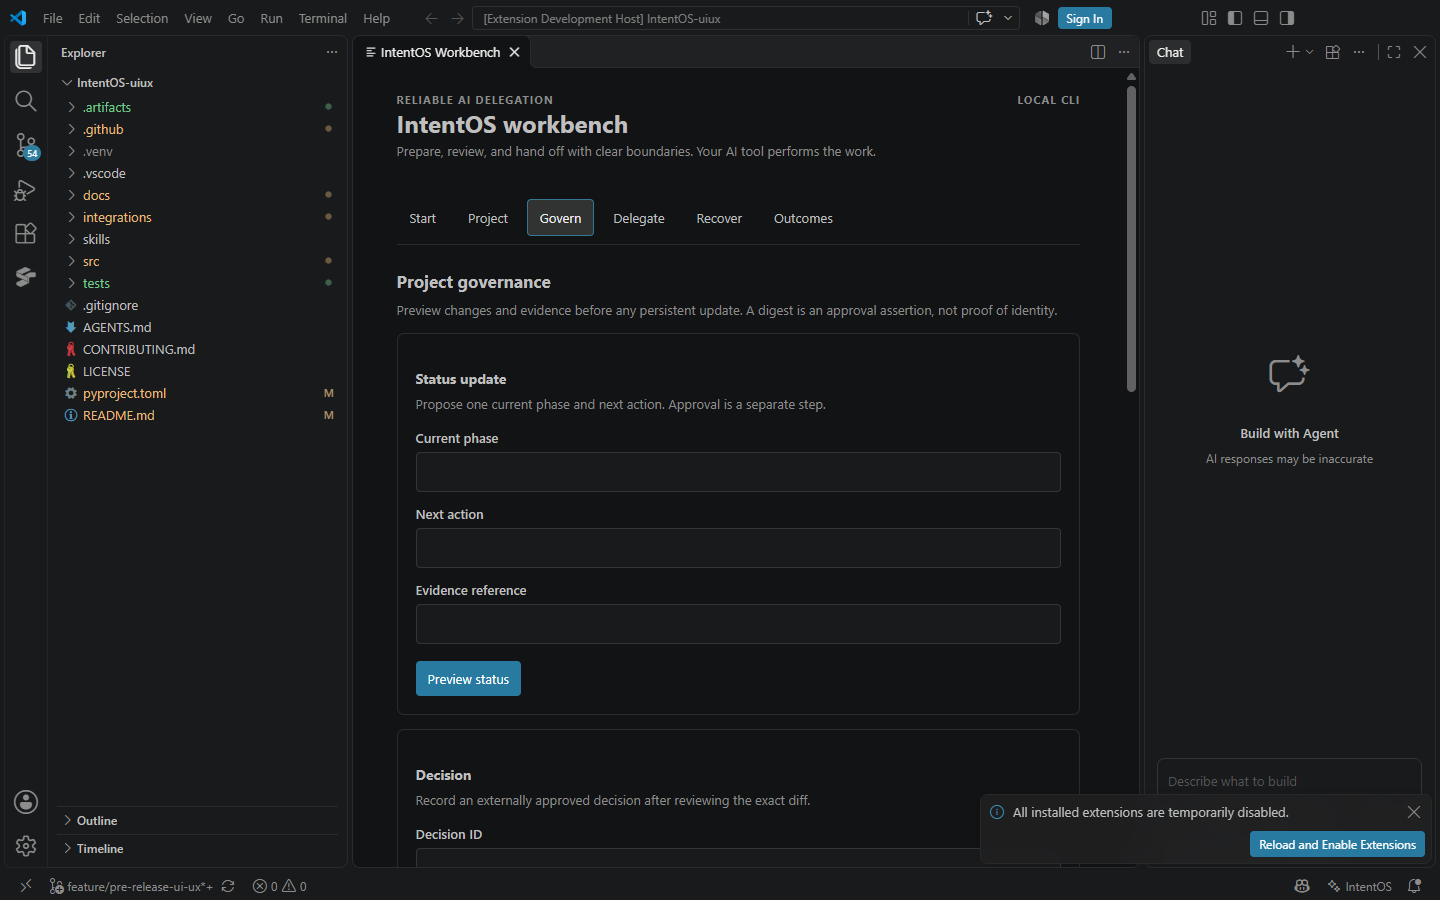
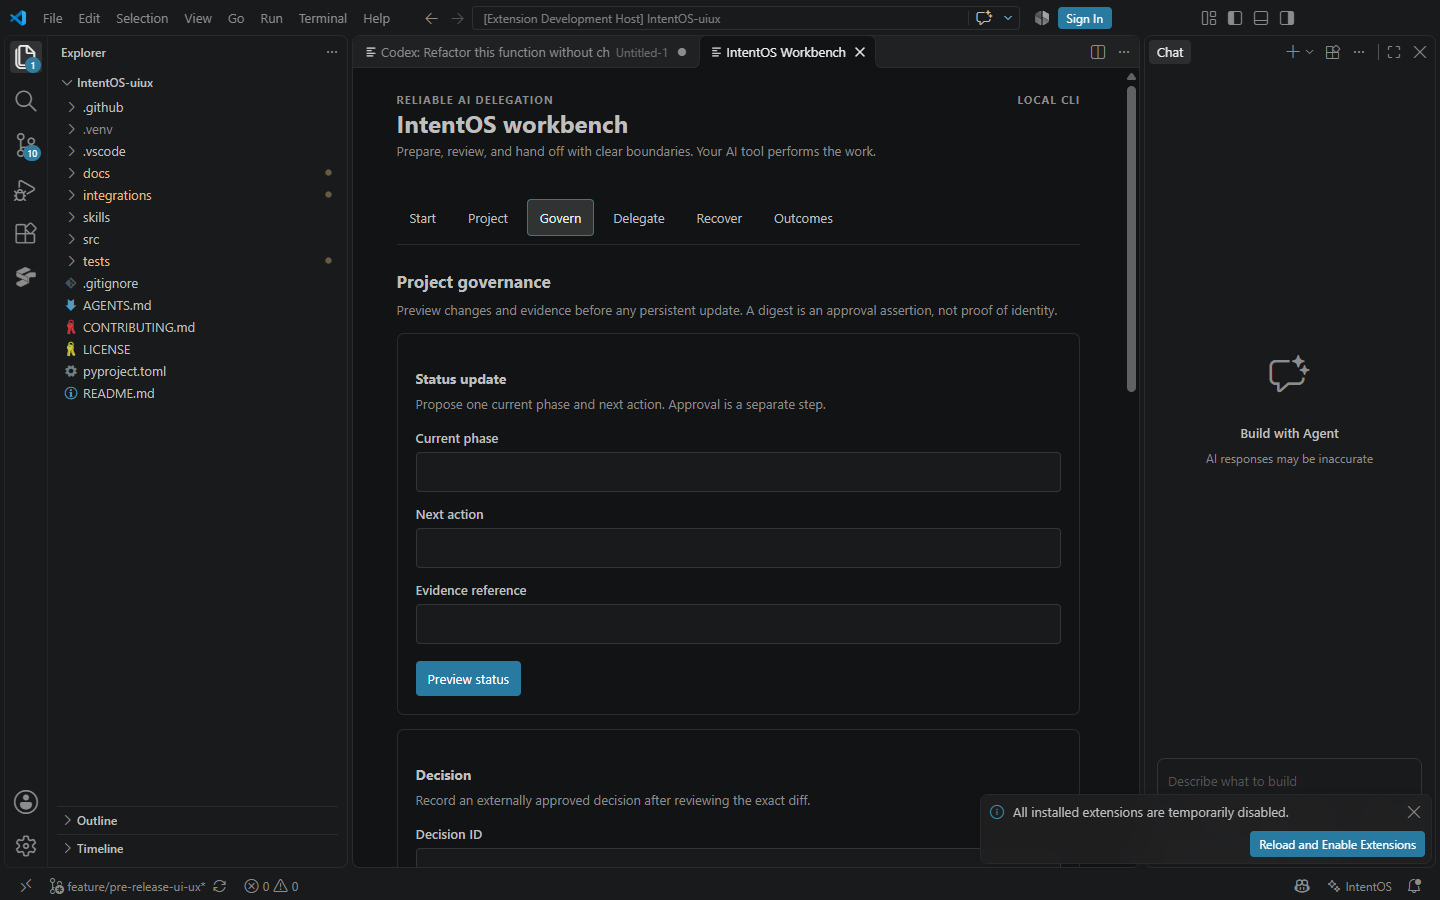
fix: preserve selected editor text in VS Code workbench

diff --git a/tests/run_vscode_extension_host.js b/tests/run_vscode_extension_host.js
@@ -201,17 +201,23 @@ async function captureWorkbenchScreenshot(userDataDir) {
   try {
     await waitFor(`Boolean(${doc}?.querySelector('#prepare-text'))`, 'task form');
     await screenshot('vscode-workbench-start.png');
-    await evaluate(`(${doc}.querySelector('#prepare-text').value='Codex: Refactor this function without changing behavior.',${doc}.querySelector('form[data-action=prepare]').requestSubmit(),true)`);
+    if (!packagedVsix) {
+      await evaluate(`(Array.from(${doc}.querySelectorAll('form[data-action=prepare] button')).find(button=>button.textContent==='Use selected editor text').click(),true)`);
+      await waitFor(`${doc}.querySelector('#prepare-text')?.value === 'Codex: Refactor this function without changing behavior.'`, 'selected editor request');
+    } else {
+      await evaluate(`(${doc}.querySelector('#prepare-text').value='Codex: Refactor this function without changing behavior.',true)`);
+    }
+    await evaluate(`(${doc}.querySelector('form[data-action=prepare]').requestSubmit(),true)`);
     await waitFor(`${doc}.querySelector('#result')?.textContent.includes('Copy Prepared Task')`, 'prepared review');
     const review = await evaluate(`${doc}.querySelector('#result').textContent`);
-    if (!review.includes('Approval boundaries') || !review.includes('Verification') || !review.includes('medium')) throw new Error('VS Code prepared review omitted a required delegation field.');
+    if (!review.includes('Codex: Refactor this function without changing behavior.') || !review.includes('Approval boundaries') || !review.includes('Verification') || !review.includes('medium')) throw new Error('VS Code prepared review omitted the selected goal or a required delegation field.');
     await screenshot('vscode-workbench-review.png');
     for (const [name, screenshotName] of [['Project', 'vscode-workbench-project.png'], ['Govern', 'vscode-workbench-governance.png'], ['Delegate', 'vscode-workbench-delegation.png'], ['Recover', 'vscode-workbench-recovery.png']]) {
       await evaluate(`(${doc}.querySelectorAll('#nav button').forEach(button=>{if(button.textContent===${JSON.stringify(name)})button.click()}),true)`);
       await waitFor(`${doc}.querySelector('main h2')?.textContent === ${JSON.stringify(({ Project: 'Project Compass', Govern: 'Project governance', Delegate: 'Agent and routing', Recover: 'Checkpoints and recovery' })[name])}`, name);
       await screenshot(screenshotName);
     }
-    console.log('Real VS Code Webview interaction passed: task submission, ready review, and Project/Govern/Delegate/Recover navigation.');
+    console.log(`Real VS Code Webview interaction passed: ${packagedVsix ? 'task entry' : 'selected editor text'}, task submission, ready review, and Project/Govern/Delegate/Recover navigation.`);
   } finally {
     frame.socket.close();
     page.socket.close();

diff --git a/integrations/vscode/extension.js b/integrations/vscode/extension.js
@@ -5,13 +5,15 @@ const { workspaceCwd, resolveExecutable, formatSpawnError } = require('./executa
 const { sidebarHtml, workbenchHtml } = require('./workbench');
 
 let workbenchPanel;
+let lastTextEditor;
 
 function selectedRequest() {
-  const editor = vscode.window.activeTextEditor;
-  if (!editor || editor.selection.isEmpty) {
-    return '';
+  for (const editor of [vscode.window.activeTextEditor, lastTextEditor]) {
+    if (editor && !editor.selection.isEmpty) {
+      return editor.document.getText(editor.selection);
+    }
   }
-  return editor.document.getText(editor.selection);
+  return '';
 }
 
 function runIntentOS(request, extensionPath, options = {}) {
@@ -202,7 +204,12 @@ function openWorkbench(extensionPath) {
         if (!pending) return;
         const candidate = pending;
         pending = undefined;
-        const answer = await vscode.window.showWarningMessage(candidate.action === 'handoffDispatch' ? 'Dispatch this exact reviewed packet to Codex? Completion will still need verification.' : 'Apply this exact reviewed project update?', { modal: true }, 'Approve exact change');
+        const prompt = candidate.action === 'handoffDispatch'
+          ? 'Dispatch this exact reviewed packet to Codex? Completion will still need verification.'
+          : candidate.action === 'outcomeLearn'
+            ? 'Save this exact reviewed learning proposal? Runtime policy will not change.'
+            : 'Apply this exact reviewed project update?';
+        const answer = await vscode.window.showWarningMessage(prompt, { modal: true }, 'Approve exact change');
         if (answer !== 'Approve exact change') return;
         const approvalArgs = candidate.action === 'outcomeLearn'
           ? ['--approval-ref', candidate.approvalRef, '--output', candidate.output]
@@ -413,6 +420,17 @@ async function prepareTask(extensionPath) {
 
 function activate(context) {
   const extensionPath = context.extensionUri.fsPath;
+  lastTextEditor = vscode.window.activeTextEditor;
+  if (vscode.window.onDidChangeActiveTextEditor) {
+    context.subscriptions.push(vscode.window.onDidChangeActiveTextEditor((editor) => {
+      if (editor) lastTextEditor = editor;
+    }));
+  }
+  if (vscode.workspace?.onDidCloseTextDocument) {
+    context.subscriptions.push(vscode.workspace.onDidCloseTextDocument((document) => {
+      if (lastTextEditor?.document === document) lastTextEditor = undefined;
+    }));
+  }
   context.subscriptions.push(
     vscode.commands.registerCommand('intentos.prepareTask', () => prepareTask(extensionPath))
   );

diff --git a/integrations/vscode/test/extensionHost.test.js b/integrations/vscode/test/extensionHost.test.js
@@ -72,6 +72,11 @@ async function run() {
     const commands = await vscode.commands.getCommands(true);
     assert(commands.includes('intentos.prepareTask'), 'The Command Palette prepare path is missing.');
     assert(commands.includes('intentos.openWorkbench'), 'The graphical workbench command is missing.');
+    const selectedText = 'Codex: Refactor this function without changing behavior.';
+    const selectionDocument = await vscode.workspace.openTextDocument({ content: selectedText });
+    const selectionEditor = await vscode.window.showTextDocument(selectionDocument, { viewColumn: vscode.ViewColumn.One });
+    selectionEditor.selection = new vscode.Selection(new vscode.Position(0, 0), new vscode.Position(0, selectedText.length));
+    assert.strictEqual(selectionEditor.document.getText(selectionEditor.selection), selectedText);
     await vscode.commands.executeCommand('intentos.openWorkbench');
     for (let attempt = 0; attempt < 20; attempt += 1) {
       if (vscode.window.tabGroups.all.some((group) => group.tabs.some((tab) => tab.label === 'IntentOS Workbench'))) break;
@@ -151,6 +156,8 @@ async function run() {
       executable,
       cwd,
       status: payload.status,
+      selectedTextAfterWorkbench: selectionEditor.document.getText(selectionEditor.selection),
+      activeEditorAfterWorkbench: vscode.window.activeTextEditor?.document.uri.toString() || null,
       extensionPath,
       mode: expectNoWorkspace ? 'no-workspace' : 'workspace',
     };

diff --git a/docs/evidence/README.md b/docs/evidence/README.md
@@ -3,6 +3,6 @@
 These PNGs were captured from running interfaces on Windows on 2026-11-05. They are developer visual evidence for owner review, not Phase 8 user observations or release screenshots.
 
 - `simple-ui-*.png`: local browser served by `intentos ui`, captured by `node tests/run_ui_browser.js` with `INTENTOS_UI_SCREENSHOTS_DIR=docs/evidence`. The real browser test submitted a task, reviewed and copied its result, selected a Project Compass source, previewed a non-mutating status update, reviewed a route, visited Recovery, switched to light theme and checked a small-screen layout.
-- `vscode-workbench-*.png`: isolated installed VS Code Extension Host, captured by `node tests/run_vscode_extension_host.js` with `INTENTOS_VSCODE_SCREENSHOTS_DIR=docs/evidence`. The real Webview submitted a task and displayed a ready review, then navigated Project, Govern, Delegate and Recover. The screenshots show a development host with other installed extensions disabled for isolation.
+- `vscode-workbench-*.png`: isolated installed VS Code Extension Host, captured by `node tests/run_vscode_extension_host.js` with `INTENTOS_VSCODE_SCREENSHOTS_DIR=docs/evidence`. The real Webview imported selected editor text, submitted that task and displayed a ready review, then navigated Project, Govern, Delegate and Recover. The screenshots show a development host with other installed extensions disabled for isolation.
 
 The VS Code package was also installed from its generated VSIX into a separate temporary extension directory and passed activation plus the same interactive Webview flow. The installed VSIX has not been published. Screenshots are point-in-time evidence only; final integrated acceptance still needs an exact-SHA CI and owner review.
